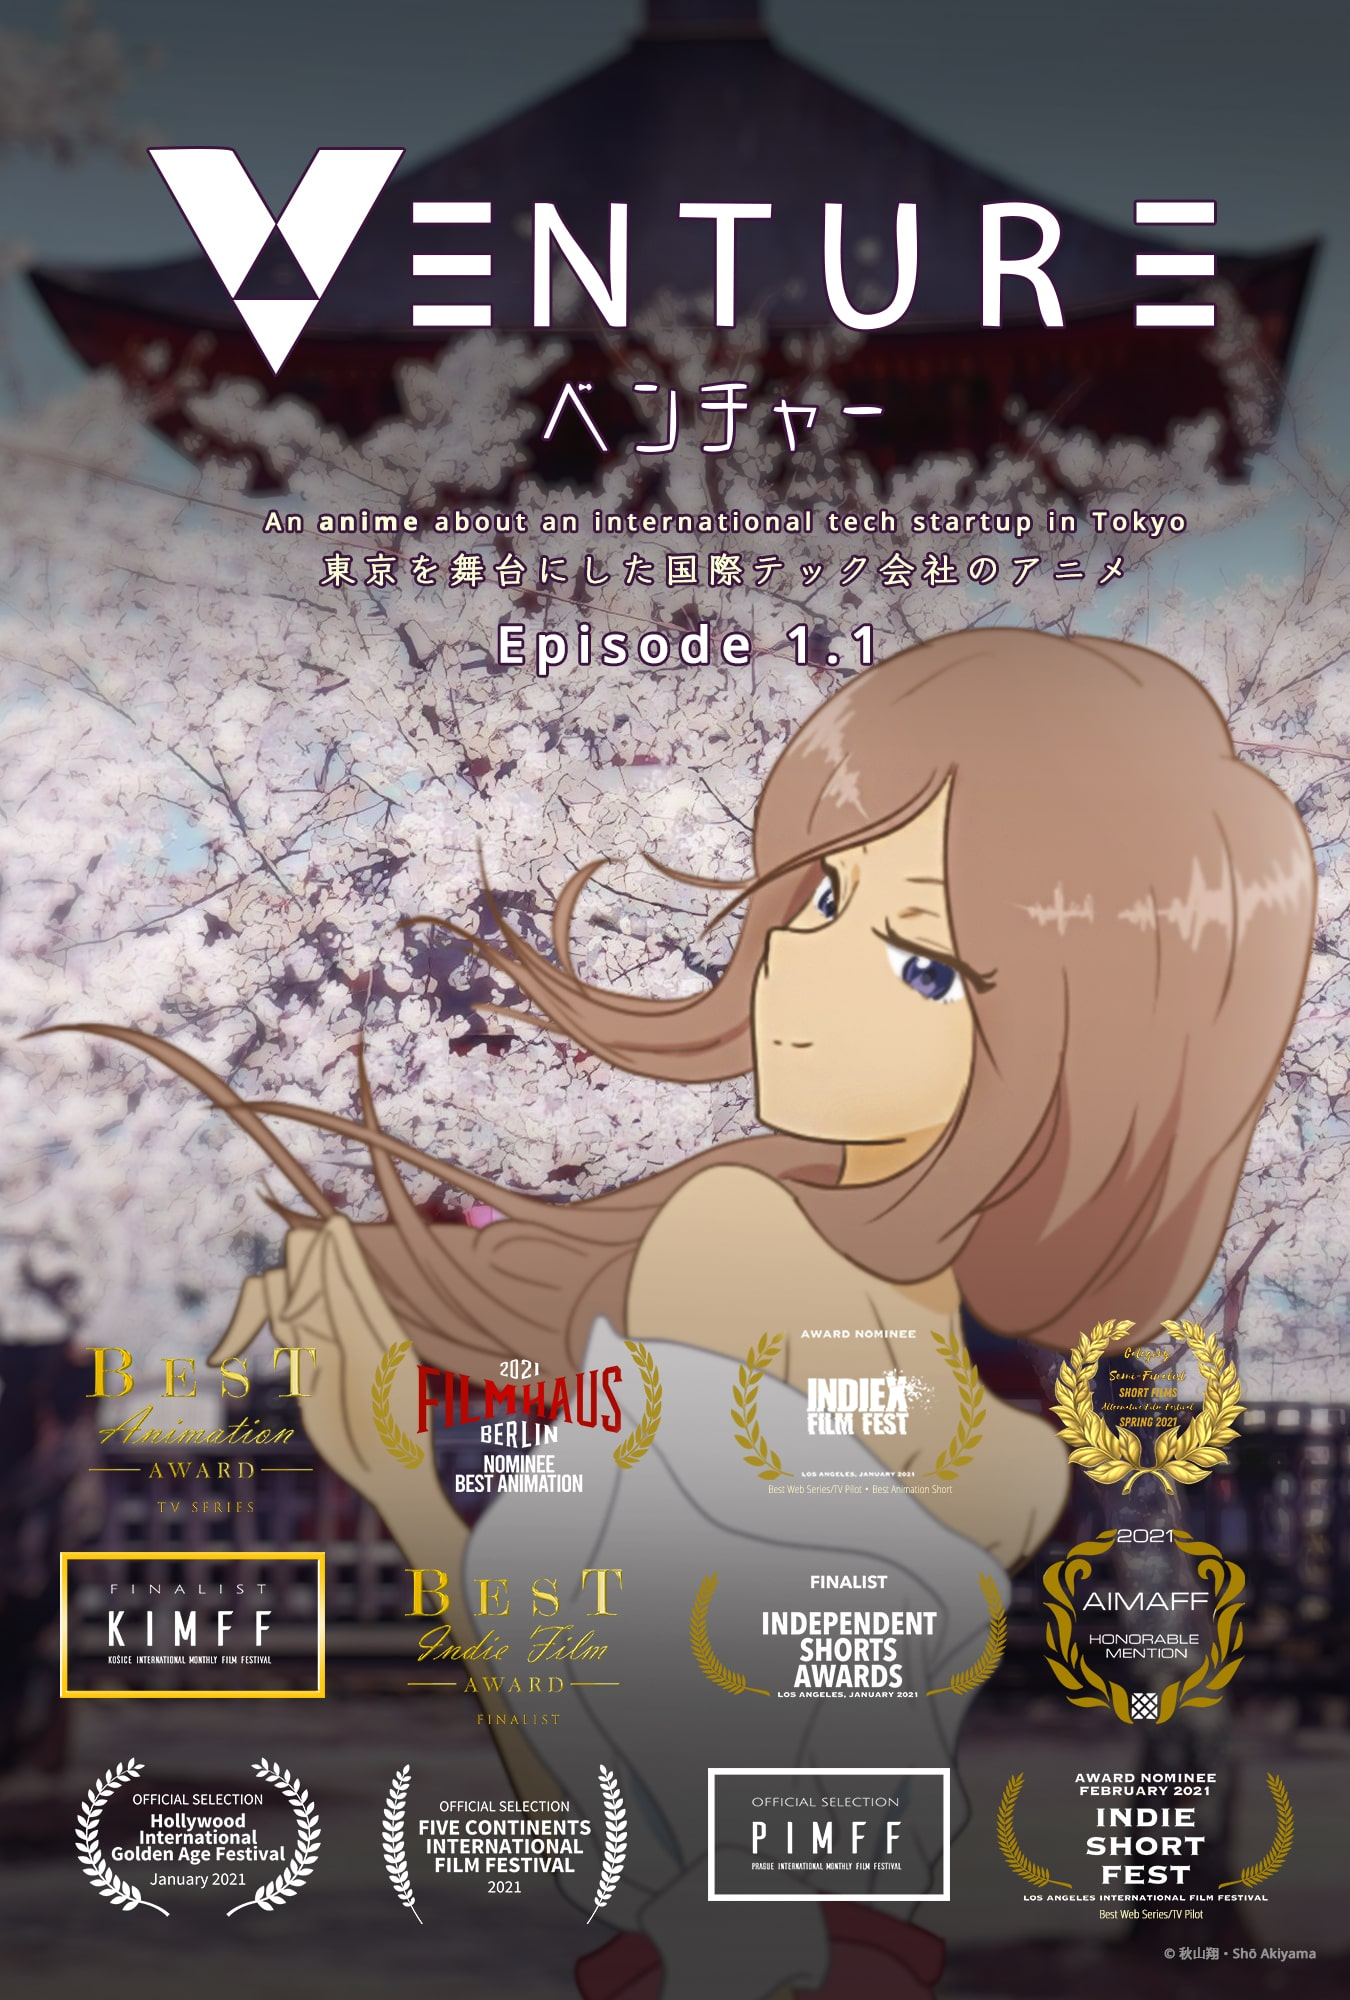
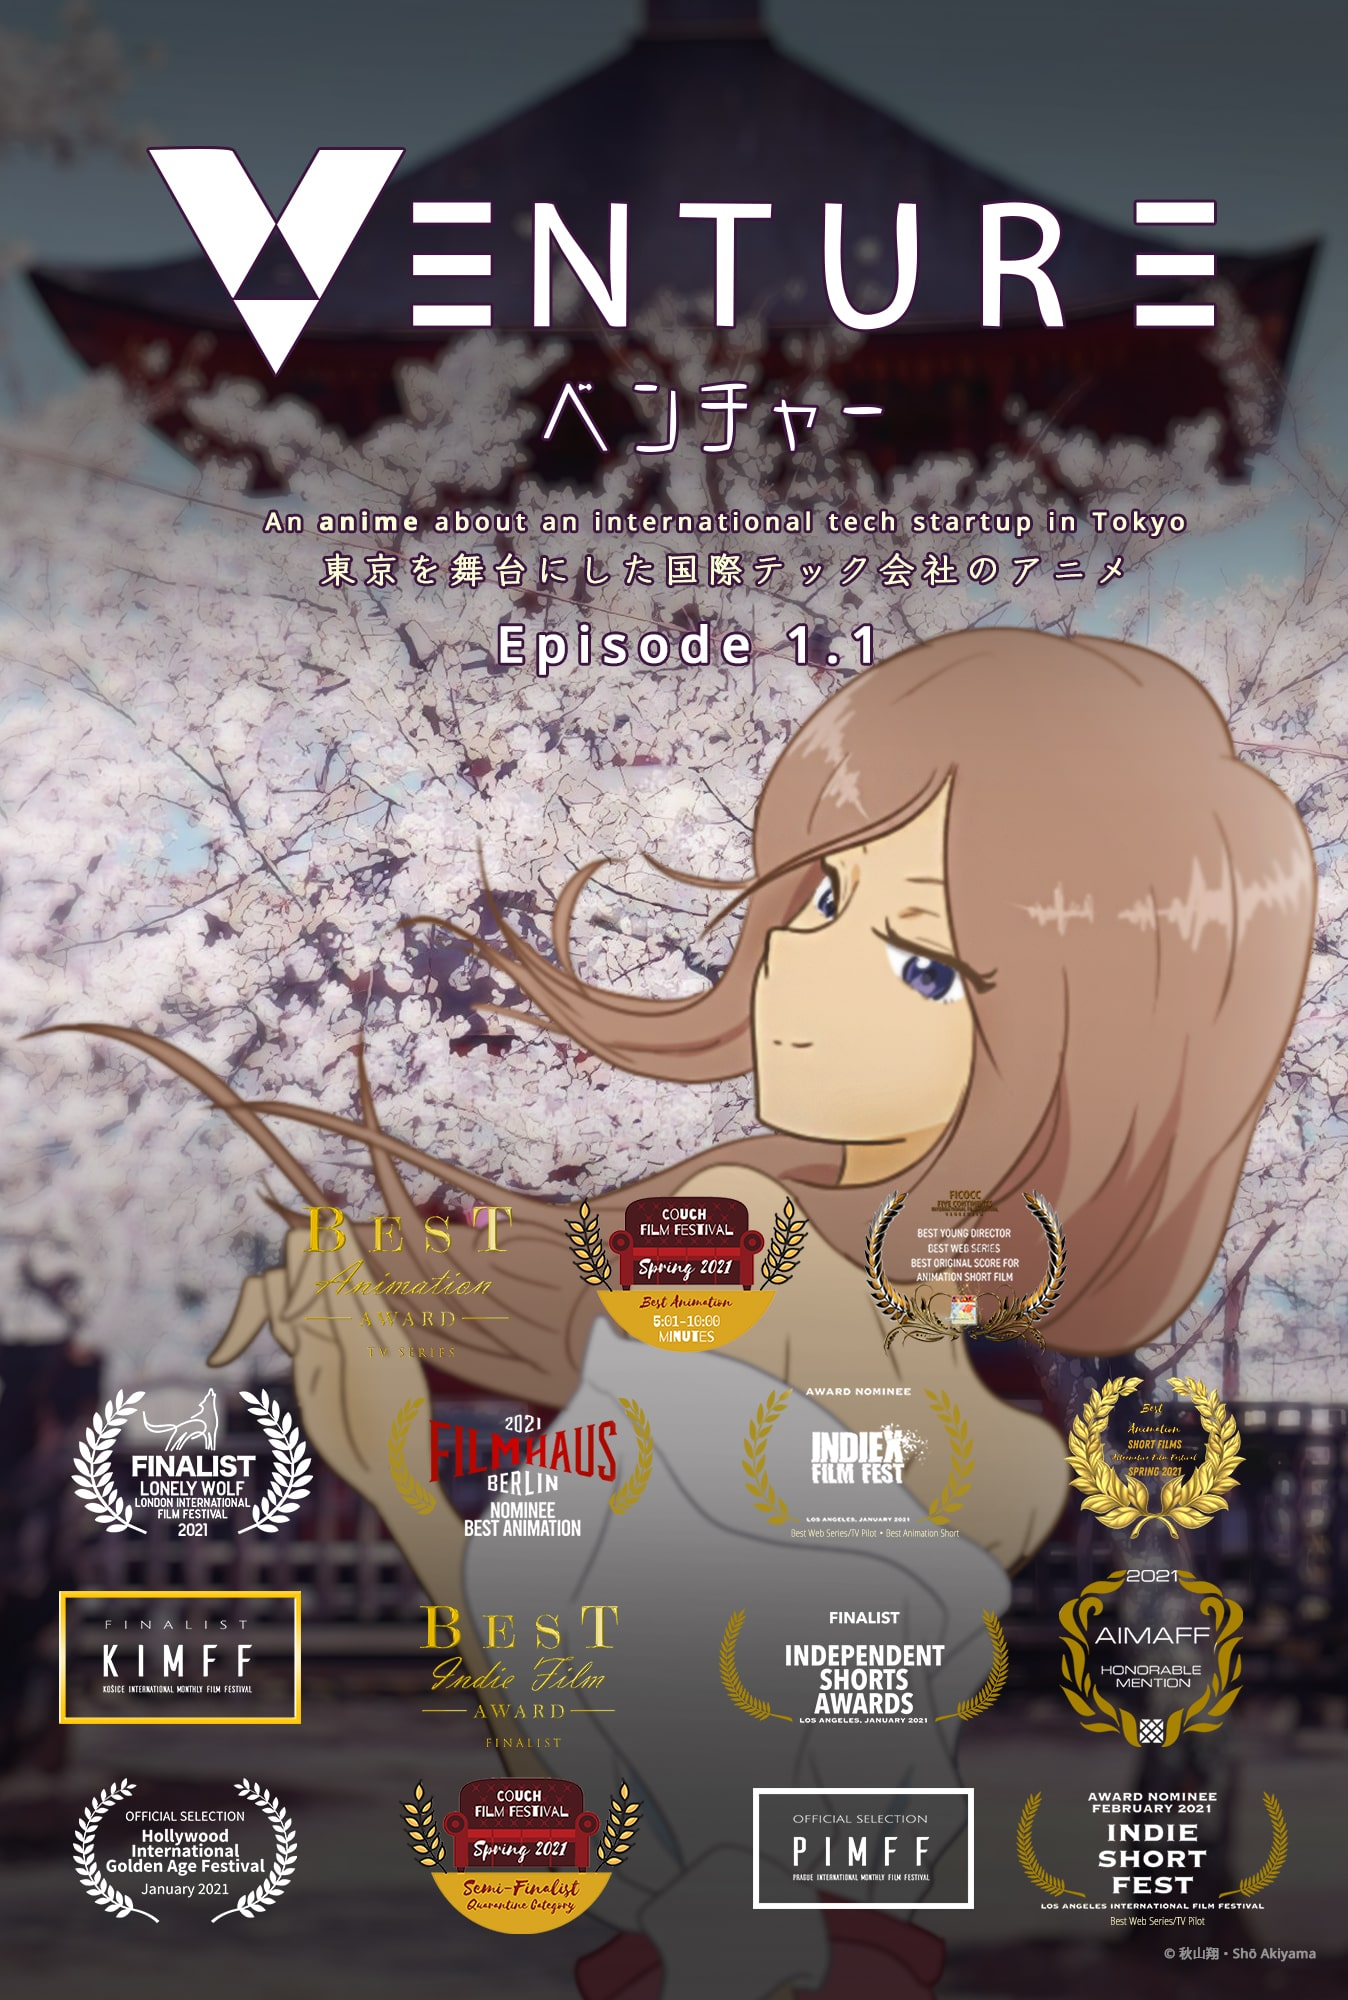
feat: added latest wins

diff --git a/src/pages/portfolio.js b/src/pages/portfolio.js
@@ -115,6 +115,27 @@ class Portfolio extends Component {
                                 <FormattedMessage id="projects.venture.bestanimation"/>
                             </FilmFestivalLink>
                         ),
+                        alternative: (
+                            <FilmFestivalLink href="https://altff.org/winners/" target="_blank">
+                                <FormattedMessage id="projects.venture.alternative"/>
+                            </FilmFestivalLink>
+                        ),
+                        fivecontinents: (
+                            <FilmFestivalLink
+                                href="https://www.ficocc.com/ficocc-5-1"
+                                target="_blank"
+                            >
+                                <FormattedMessage id="projects.venture.fivecontinents"/>
+                            </FilmFestivalLink>
+                        ),
+                        lonelywolf: (
+                            <FilmFestivalLink
+                                href="https://www.lonelywolffilmfest.com/winners-nominees-spring2021.html"
+                                target="_blank"
+                            >
+                                <FormattedMessage id="projects.venture.lonelywolf"/>
+                            </FilmFestivalLink>
+                        ),
                         athens: (
                             <FilmFestivalLink
                                 href="https://aimaff.com/"
@@ -168,11 +189,6 @@ class Portfolio extends Component {
                                 <FormattedMessage id="projects.venture.kosice"/>
                             </FilmFestivalLink>
                         ),
-                        alternative: (
-                            <FilmFestivalLink href="https://altff.org/winners/" target="_blank">
-                                <FormattedMessage id="projects.venture.alternative"/>
-                            </FilmFestivalLink>
-                        ),
                         prague: (
                             <FilmFestivalLink
                                 href="https://praguefilmfest.com/winners/june-2020"
@@ -181,14 +197,7 @@ class Portfolio extends Component {
                                 <FormattedMessage id="projects.venture.prague"/>
                             </FilmFestivalLink>
                         ),
-                        fivecontinents: (
-                            <FilmFestivalLink
-                                href="https://www.ficocc.com/"
-                                target="_blank"
-                            >
-                                <FormattedMessage id="projects.venture.fivecontinents"/>
-                            </FilmFestivalLink>
-                        ),
+
                         higa: (
                             <FilmFestivalLink
                                 href="https://higafestival.com/"
